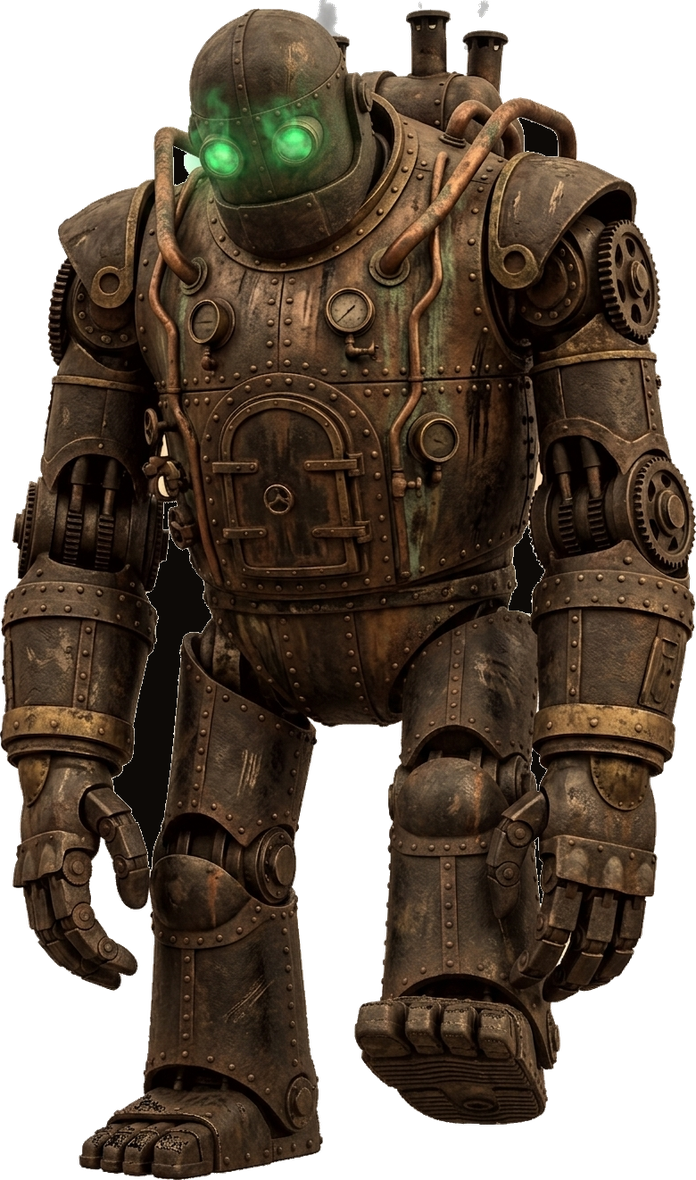
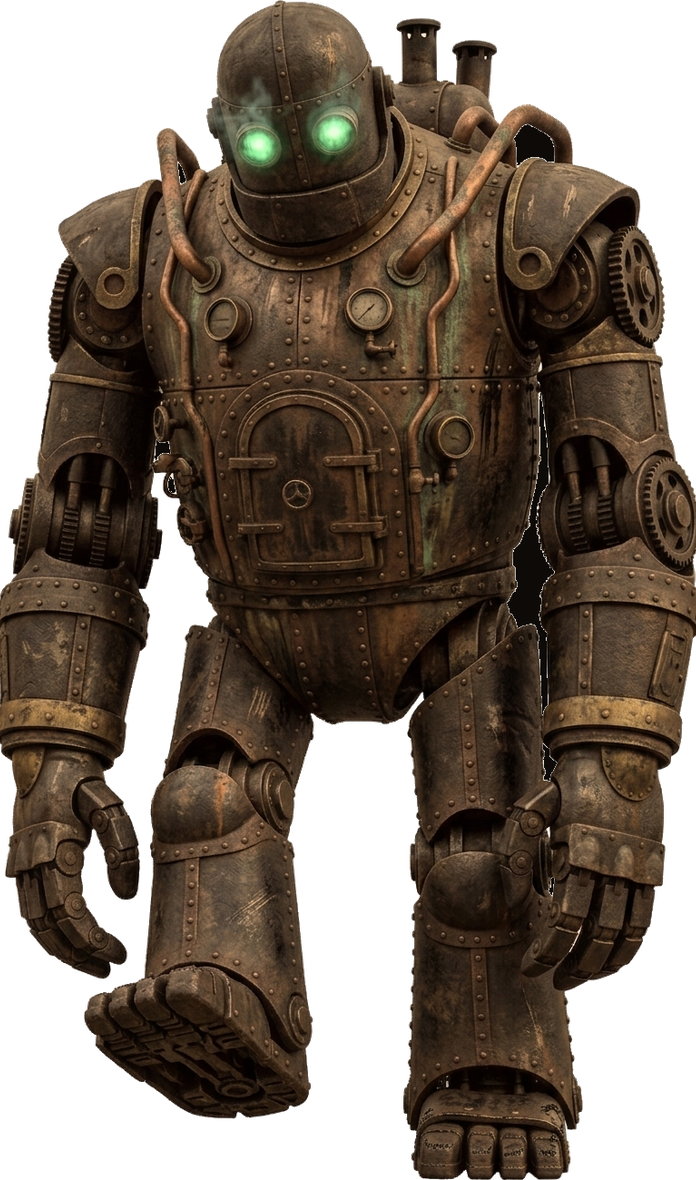
## Leg Swap + Floating Sound Button Complete - Awakening step regenerated to lead with the other leg — knee lift and forward plant now on the viewer-left side, verified mid-sequence - Sound on/off button moved out of the header to float directly above the scenery eye button, styled to match, availab
- Next Action Items:
  - **Collectible Fate**: Make witnessing the golem awakening unlock a 22nd trophy on the Collection page
  - **Furnace Crackle**: Add a soft coal-fire crackle loop near the left golem's glowing belly grate
  - **Home Refactor**: Make Home.jsx maintainable by splitting its 1,478 lines into small focused components and hooks
  - **Seasonal Events**: Turn realms into limited-time takeover events with exclusive collectible rituals players can only earn that week

diff --git a/frontend/src/components/scenes/AmbianceScene.jsx b/frontend/src/components/scenes/AmbianceScene.jsx
@@ -420,7 +420,7 @@ function useGolemWake(enabled) {
   const [ph, setPh] = useState(0); // 0 asleep, 1 awake, 2 leg lifts, 3 foot plants fwd (leaning), 4 leg lifts back, 5 stands, 6 powering down
   useEffect(() => {
     if (!enabled) return undefined;
-    ["/steam-golem-right-awake.png", "/steam-golem-right-step.png", "/steam-golem-right-lift.png"].forEach((s) => { const im = new Image(); im.src = s; });
+    ["/steam-golem-right-awake.png", "/steam-golem-right-step.png?v=475", "/steam-golem-right-lift.png?v=475"].forEach((s) => { const im = new Image(); im.src = s; });
     preloadHeistAudio(["/golem-wake-up.mp3", "/golem-step-forward.mp3", "/golem-step-back.mp3", "/golem-power-down.mp3"]);
     let timers = [];
     let pending;
@@ -707,8 +707,8 @@ export function AmbianceScene({ theme, cfg, heistEpoch = 0 }) {
           <div className="absolute inset-0" style={{ transformOrigin: "50% 100%", animation: golemWake === 1 ? "ffGolemRumble 0.4s linear 3" : golemWake === 2 || golemWake === 4 ? "ffGolemStepLift 1.2s cubic-bezier(0.4,0,0.5,1) forwards" : golemWake === 3 || golemWake === 5 ? "ffGolemStepSettle 1.2s cubic-bezier(0.45,0,0.55,1)" : undefined }}>
             <img src={cfg.golemRight} alt="" className="absolute inset-0 h-full w-full object-contain" style={{ opacity: golemWake === 0 || golemWake === 6 ? 1 : 0, transition: "opacity 0.5s ease", filter: "drop-shadow(0 6px 10px rgba(0,0,0,0.55)) brightness(0.92)" }} />
             <img src="/steam-golem-right-awake.png" alt="" className="absolute inset-0 h-full w-full object-contain" style={{ opacity: golemWake === 1 || golemWake === 5 ? 1 : 0, transition: "opacity 0.5s ease", filter: "drop-shadow(0 6px 10px rgba(0,0,0,0.55)) brightness(0.92)" }} data-testid="golem-wake-awake" />
-            <img src="/steam-golem-right-lift.png" alt="" className="absolute inset-0 h-full w-full object-contain" style={{ opacity: golemWake === 2 || golemWake === 4 ? 1 : 0, transition: "opacity 0.5s ease", filter: "drop-shadow(0 6px 10px rgba(0,0,0,0.55)) brightness(0.92)" }} data-testid="golem-wake-lift" />
-            <img src="/steam-golem-right-step.png" alt="" className="absolute inset-0 h-full w-full object-contain" style={{ opacity: golemWake === 3 ? 1 : 0, transition: "opacity 0.5s ease", filter: "drop-shadow(0 6px 10px rgba(0,0,0,0.55)) brightness(0.92)" }} data-testid="golem-wake-step" />
+            <img src="/steam-golem-right-lift.png?v=475" alt="" className="absolute inset-0 h-full w-full object-contain" style={{ opacity: golemWake === 2 || golemWake === 4 ? 1 : 0, transition: "opacity 0.5s ease", filter: "drop-shadow(0 6px 10px rgba(0,0,0,0.55)) brightness(0.92)" }} data-testid="golem-wake-lift" />
+            <img src="/steam-golem-right-step.png?v=475" alt="" className="absolute inset-0 h-full w-full object-contain" style={{ opacity: golemWake === 3 ? 1 : 0, transition: "opacity 0.5s ease", filter: "drop-shadow(0 6px 10px rgba(0,0,0,0.55)) brightness(0.92)" }} data-testid="golem-wake-step" />
             {/* smoky green aura around the head while he's awake */}
             {golemWake >= 1 && golemWake <= 5 && (
               <div className="absolute" style={{ left: "22%", top: "1%", width: "26%", aspectRatio: "1" }} data-testid="golem-wake-aura">

diff --git a/frontend/src/pages/Home.jsx b/frontend/src/pages/Home.jsx
@@ -3,7 +3,7 @@ import { Link, useNavigate } from "react-router-dom";
 import axios from "axios";
 import { motion, AnimatePresence } from "framer-motion";
 import { toast } from "sonner";
-import { Dices, Search, ShoppingBag, Fuel, Coffee, IceCream, Clock, LocateFixed, ArrowDownWideNarrow, Flame, Users, Beer, Trophy, UtensilsCrossed, ChevronDown, Mountain, Tent, Stamp, Globe2, Sparkles, Crown, BookOpen, Eye, EyeOff } from "lucide-react";
+import { Dices, Search, ShoppingBag, Fuel, Coffee, IceCream, Clock, LocateFixed, ArrowDownWideNarrow, Flame, Users, Beer, Trophy, UtensilsCrossed, ChevronDown, Mountain, Tent, Stamp, Globe2, Sparkles, Crown, BookOpen, Eye, EyeOff, Volume2, VolumeX } from "lucide-react";
 import Filters from "../components/Filters";
 import { RestaurantCard } from "../components/RestaurantCard";
 import BecomeSponsorDialog from "../components/BecomeSponsorDialog";
@@ -1047,8 +1047,6 @@ export default function Home() {
         dismissThemeHint={dismissThemeHint}
         onOpenThemePicker={() => { dismissThemeHint(); setShowThemeWelcome(true); }}
         hintColor={ambCfg ? ambCfg.accent : seasonCfg ? seasonCfg.hint : light ? "#4F6F47" : "#E01E26"}
-        muted={muted}
-        toggleMuted={toggleMuted}
         onGuided={() => setShowGuided(true)}
         zip={zip}
         coords={coords}
@@ -1059,6 +1057,21 @@ export default function Home() {
         sponsorOpen={sponsorOpen}
         setSponsorOpen={setSponsorOpen}
       />
+
+      {/* SOUND toggle: floats just above the scenery eye, present in every realm */}
+      <button
+        onClick={toggleMuted}
+        data-testid="sound-toggle-button"
+        title={muted ? "Sound off — click to enable sound" : "Sound on — click to mute"}
+        aria-label={muted ? "Enable sound" : "Mute sound"}
+        className={`fixed bottom-[4.75rem] right-5 z-[75] grid h-11 w-11 place-items-center rounded-full border backdrop-blur-sm transition-all duration-300 ${scenery
+          ? "border-white/30 bg-black/30 text-white/80 opacity-60 hover:opacity-100"
+          : light
+          ? "border-[#E2E4E7] bg-white/85 text-[#6B7075] shadow-sm hover:text-[#0E0E0E]"
+          : "border-white/15 bg-black/40 text-white/60 hover:text-white"}`}
+      >
+        {muted ? <VolumeX className="h-5 w-5" /> : <Volume2 className="h-5 w-5" />}
+      </button>
 
       {/* SCENERY MODE eye: floats above everything; the wrapper below fades */}
       <button

diff --git a/frontend/public/index.html b/frontend/public/index.html
@@ -60,7 +60,7 @@
         <title>Fork·Fate — Restaurant Roulette</title>
         <script>window.addEventListener("error",function(e){if(e.error instanceof DOMException&&e.error.name==="DataCloneError"&&e.message&&e.message.includes("PerformanceServerTiming")){e.stopImmediatePropagation();e.preventDefault()}},true);</script>
         <script>(function(){try{if('serviceWorker' in navigator){window.addEventListener('load',function(){navigator.serviceWorker.register('/service-worker.js',{scope:'/'}).catch(function(){});});}}catch(e){}})();</script>
-        <script>(function(){try{var FF_BUILD="2026.06-474";var prev=localStorage.getItem("ff_build");if(prev!==FF_BUILD){localStorage.setItem("ff_build",FF_BUILD);if(window.caches&&caches.keys){caches.keys().then(function(keys){keys.forEach(function(k){caches.delete(k);});});}if(prev&&!sessionStorage.getItem("ff_build_reloaded")){sessionStorage.setItem("ff_build_reloaded","1");location.reload(true);}}}catch(e){}})();</script>
+        <script>(function(){try{var FF_BUILD="2026.06-475";var prev=localStorage.getItem("ff_build");if(prev!==FF_BUILD){localStorage.setItem("ff_build",FF_BUILD);if(window.caches&&caches.keys){caches.keys().then(function(keys){keys.forEach(function(k){caches.delete(k);});});}if(prev&&!sessionStorage.getItem("ff_build_reloaded")){sessionStorage.setItem("ff_build_reloaded","1");location.reload(true);}}}catch(e){}})();</script>
         <script src="https://assets.emergent.sh/scripts/emergent-main.js"></script>
         <!-- Google Analytics 4 -->
         <script async src="https://www.googletagmanager.com/gtag/js?id=G-4E739B8J0H"></script>

diff --git a/frontend/src/components/home/HomeHeader.jsx b/frontend/src/components/home/HomeHeader.jsx
@@ -1,7 +1,7 @@
 import { Link } from "react-router-dom";
 import { useEffect, useState } from "react";
 import { motion } from "framer-motion";
-import { Palette, Sparkles, ShoppingBag, Store, Volume2, VolumeX } from "lucide-react";
+import { Palette, Sparkles, ShoppingBag, Store } from "lucide-react";
 import { useLang } from "../../i18n/i18n";
 import NearbyHelp from "../NearbyHelp";
 import ReigningChampBadge from "../ReigningChampBadge";
@@ -70,7 +70,7 @@ function GearTicker() {
  */
 export function HomeHeader({
   light, ghost, theme, themeHint, dismissThemeHint, hintColor, onOpenThemePicker,
-  muted, toggleMuted, onGuided, zip, coords,
+  onGuided, zip, coords,
   favorites, removeFavorite, dealFromFavorites, groupMode,
   sponsorOpen, setSponsorOpen,
 }) {
@@ -171,15 +171,6 @@ export function HomeHeader({
             lng={coords?.lng ?? null}
           />
           <ReigningChampBadge light={light} />
-          <button
-            onClick={toggleMuted}
-            data-testid="sound-toggle-button"
-            title={muted ? "Sound off — click to enable the reveal sound" : "Sound on — click to mute"}
-            aria-label={muted ? "Enable sound" : "Mute sound"}
-            className={`inline-flex items-center justify-center rounded-full border bg-transparent p-2 transition-colors sm:p-2.5 ${ghost}`}
-          >
-            {muted ? <VolumeX className="h-4 w-4 text-[#8A8F95]" /> : <Volume2 className="h-4 w-4 text-[#E01E26]" />}
-          </button>
           <BecomeSponsorDialog
             variant="link"
             open={sponsorOpen}

diff --git a/scripts/process_golem_pose.py b/scripts/process_golem_pose.py
@@ -1,0 +1,73 @@
+"""Shared post-processing for golem pose sprites: key white bg from edges,
+shadow-fill bright enclosed patches + enclosed transparent holes, normalize
+to the base sprite's 696x1180 canvas (content scaled to full height, centered)."""
+import sys
+from collections import deque
+
+from PIL import Image
+
+
+def process(src, dst):
+    im = Image.open(src).convert('RGBA')
+    w, h = im.size
+    px = im.load()
+
+    def bgish(p, tol=200, chroma=26):
+        r, g, b, a = p
+        return a > 0 and r > tol and g > tol and b > tol and (max(r, g, b) - min(r, g, b)) < chroma
+
+    seen = set(); q = deque()
+    for x in range(w):
+        for y in (0, h - 1):
+            if bgish(px[x, y]): q.append((x, y)); seen.add((x, y))
+    for y in range(h):
+        for x in (0, w - 1):
+            if bgish(px[x, y]) and (x, y) not in seen: q.append((x, y)); seen.add((x, y))
+    while q:
+        cx, cy = q.popleft()
+        for nx, ny in ((cx + 1, cy), (cx - 1, cy), (cx, cy + 1), (cx, cy - 1)):
+            if 0 <= nx < w and 0 <= ny < h and (nx, ny) not in seen and bgish(px[nx, ny], 196, 30):
+                seen.add((nx, ny)); q.append((nx, ny))
+    for (x, y) in seen: px[x, y] = (0, 0, 0, 0)
+
+    def bright(p): return p[3] > 0 and p[0] > 224 and p[1] > 224 and p[2] > 224 and max(p[:3]) - min(p[:3]) < 28
+    seen2 = set(); rm = set()
+    for y in range(h):
+        for x in range(w):
+            if (x, y) in seen2 or not bright(px[x, y]): continue
+            q = deque([(x, y)]); seen2.add((x, y)); pts = []
+            while q:
+                cx, cy = q.popleft(); pts.append((cx, cy))
+                for nx, ny in ((cx + 1, cy), (cx - 1, cy), (cx, cy + 1), (cx, cy - 1)):
+                    if 0 <= nx < w and 0 <= ny < h and (nx, ny) not in seen2 and bright(px[nx, ny]):
+                        seen2.add((nx, ny)); q.append((nx, ny))
+            if len(pts) > 40: rm.update(pts)
+    for (x, y) in rm: px[x, y] = (13, 10, 7, 255)
+
+    outer = set(); q = deque()
+    for x in range(w):
+        for y in (0, h - 1):
+            if px[x, y][3] == 0 and (x, y) not in outer: outer.add((x, y)); q.append((x, y))
+    for y in range(h):
+        for x in (0, w - 1):
+            if px[x, y][3] == 0 and (x, y) not in outer: outer.add((x, y)); q.append((x, y))
+    while q:
+        cx, cy = q.popleft()
+        for nx, ny in ((cx + 1, cy), (cx - 1, cy), (cx, cy + 1), (cx, cy - 1)):
+            if 0 <= nx < w and 0 <= ny < h and (nx, ny) not in outer and px[nx, ny][3] == 0:
+                outer.add((nx, ny)); q.append((nx, ny))
+    for y in range(h):
+        for x in range(w):
+            if px[x, y][3] == 0 and (x, y) not in outer: px[x, y] = (13, 10, 7, 255)
+
+    im = im.crop(im.getbbox())
+    scale = 1180 / im.height
+    im = im.resize((int(im.width * scale), 1180), Image.LANCZOS)
+    canvas = Image.new('RGBA', (696, 1180), (0, 0, 0, 0))
+    canvas.alpha_composite(im, ((696 - im.width) // 2, 0))
+    canvas.save(dst)
+    print("saved", dst, im.size)
+
+
+if __name__ == "__main__":
+    process(sys.argv[1], sys.argv[2])

diff --git a/scripts/gen_golem_otherleg.py b/scripts/gen_golem_otherleg.py
@@ -1,0 +1,56 @@
+"""Regenerate the golem's lift + step frames using the OTHER leg
+(the leg on the LEFT side of the image)."""
+import asyncio
+import base64
+import os
+
+from dotenv import load_dotenv
+
+load_dotenv("/app/backend/.env")
+from emergentintegrations.llm.chat import LlmChat, UserMessage, ImageContent
+
+with open("/app/frontend/public/steam-golem-right.png", "rb") as f:
+    REF = base64.b64encode(f.read()).decode("utf-8")
+
+COMMON = (
+    "Keep EVERYTHING else about this exact robot identical: same design, same bronze/brass weathered "
+    "materials, same proportions, same three chimney stacks on the back, same lighting, same camera "
+    "angle, same scale and position in the frame. "
+    "Isolated on a plain solid white background, full body visible, nothing cropped, no text."
+)
+
+POSES = {
+    "lift": (
+        "Edit this sleeping steampunk automaton golem: it has WOKEN UP and is MID-STEP — head raised "
+        "looking straight ahead, eye lenses glowing eerie smoky green. It lifts the leg on the LEFT SIDE "
+        "OF THE IMAGE: that knee raised high with that foot OFF THE GROUND in the air, body leaning "
+        "slightly forward, all its weight on the other leg (the one on the right side of the image), "
+        "which stays planted in its original floor position. Arms slightly out for balance. " + COMMON
+    ),
+    "step": (
+        "Edit this sleeping steampunk automaton golem: it has WOKEN UP — head raised looking straight "
+        "ahead, eye lenses glowing eerie smoky green, and it is TAKING A STEP FORWARD with the leg on "
+        "the LEFT SIDE OF THE IMAGE: that foot planted slightly forward toward the viewer, body weight "
+        "shifted onto it and leaning forward, the other leg (right side of the image) trailing behind "
+        "in its original floor position. " + COMMON
+    ),
+}
+
+
+async def main() -> None:
+    for name, prompt in POSES.items():
+        try:
+            chat = LlmChat(api_key=os.getenv("EMERGENT_LLM_KEY"), session_id=f"golem-otherleg-{name}", system_message="You are an expert sprite artist.")
+            chat.with_model("gemini", "gemini-3.1-flash-image-preview").with_params(modalities=["image", "text"])
+            text, images = await chat.send_message_multimodal_response(UserMessage(text=prompt, file_contents=[ImageContent(REF)]))
+            if not images:
+                print(f"{name}: NO IMAGE ({(text or '')[:100]})")
+                continue
+            with open(f"/app/scripts/golem_otherleg_{name}_raw.png", "wb") as f:
+                f.write(base64.b64decode(images[0]["data"]))
+            print(f"{name}: saved")
+        except Exception as e:  # noqa: BLE001
+            print(f"{name}: FAILED {e}")
+
+
+asyncio.run(main())

diff --git a/memory/CHANGELOG.md b/memory/CHANGELOG.md
@@ -743,3 +743,14 @@ ROADMAP idea (user): future categories beyond food/drinks/bars/desserts -> antiq
   Crossfades 0.5s; lift phases use ffGolemStepLift, settle on 3/5.
 - Mobile arc table moved left-[-7%] (was 2%) — "too close to him". Verified via
   forced-wake screenshots (lift + planted frames, table spacing).
+
+## 2026-06 — Other-leg step frames + floating sound toggle (FF_BUILD 475)
+- STEP LEG SWAP (user: "other leg"): regenerated lift + step frames leading with
+  the viewer-LEFT leg (gen_golem_otherleg.py, explicit image-side language to
+  avoid mirror confusion). Shared pipeline extracted to
+  /app/scripts/process_golem_pose.py. Pose img srcs cache-busted ?v=475.
+- SOUND TOGGLE MOVED: removed speaker from HomeHeader (props/imports cleaned);
+  new fixed floating button bottom-[4.75rem] right-5 z-[75], directly ABOVE the
+  scenery eye, same pill styling, present in all realms incl. scenery mode.
+  Same data-testid sound-toggle-button. Verified stack (sound y680 / eye y736),
+  header clean, ff_muted toggling, other-leg step visually.

diff --git a/memory/PRD.md b/memory/PRD.md
@@ -2871,3 +2871,8 @@ inside playHeistSound).
 - Added AI-generated knee-lift frame; awakening now: awake -> leg lifts -> plants
   forward leaning -> lifts back -> stands -> powers down, fully scored with the
   user's 4 clips. Table moved further from him on mobile. Verified via screenshots.
+
+## 2026-08-14 part 110: Leg swap + relocated mute (FF_BUILD 475)
+- Awakening step now leads with the other (viewer-left) leg via regenerated
+  frames; mute button moved from header to float above the scenery eye in all
+  realms. Verified via DOM positions + screenshots.
